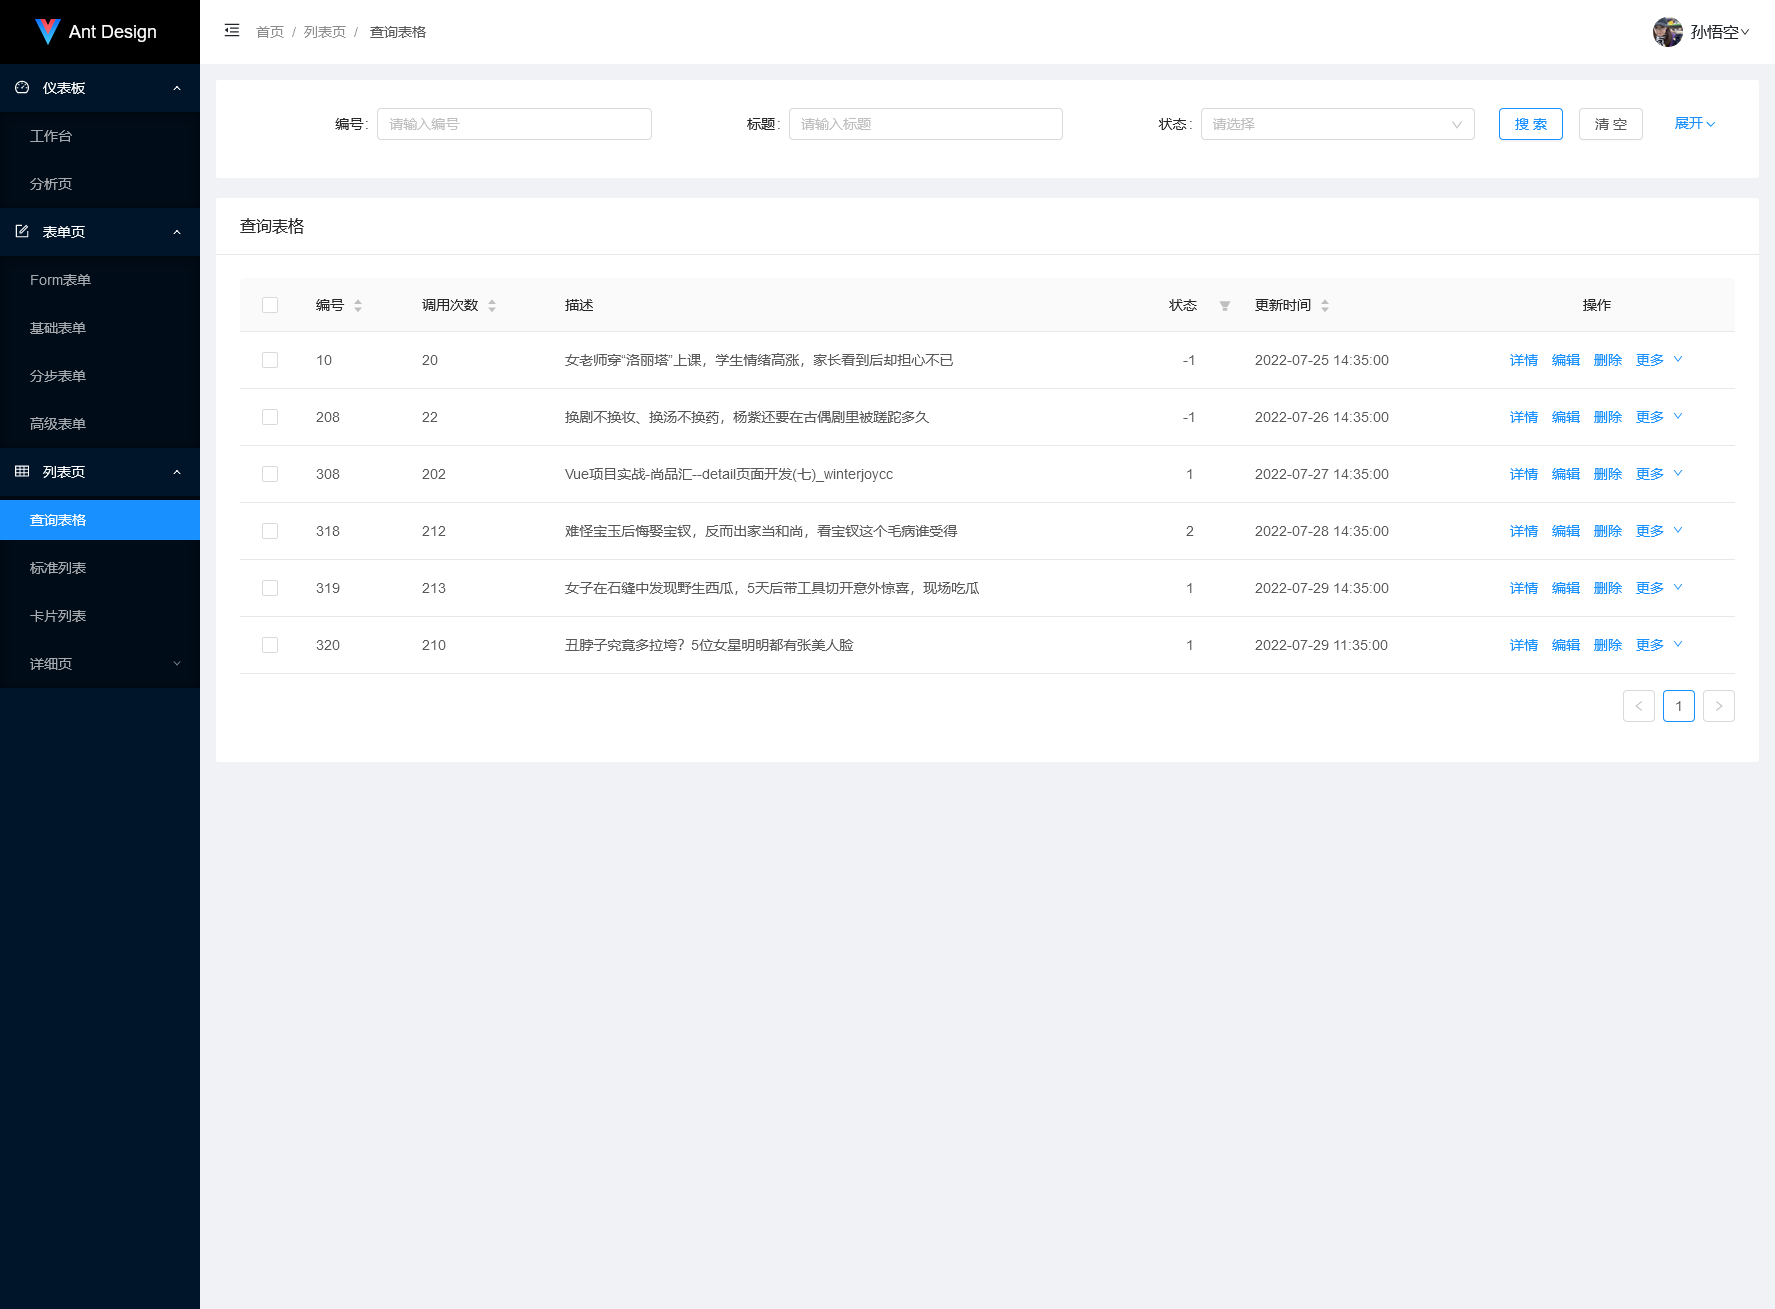
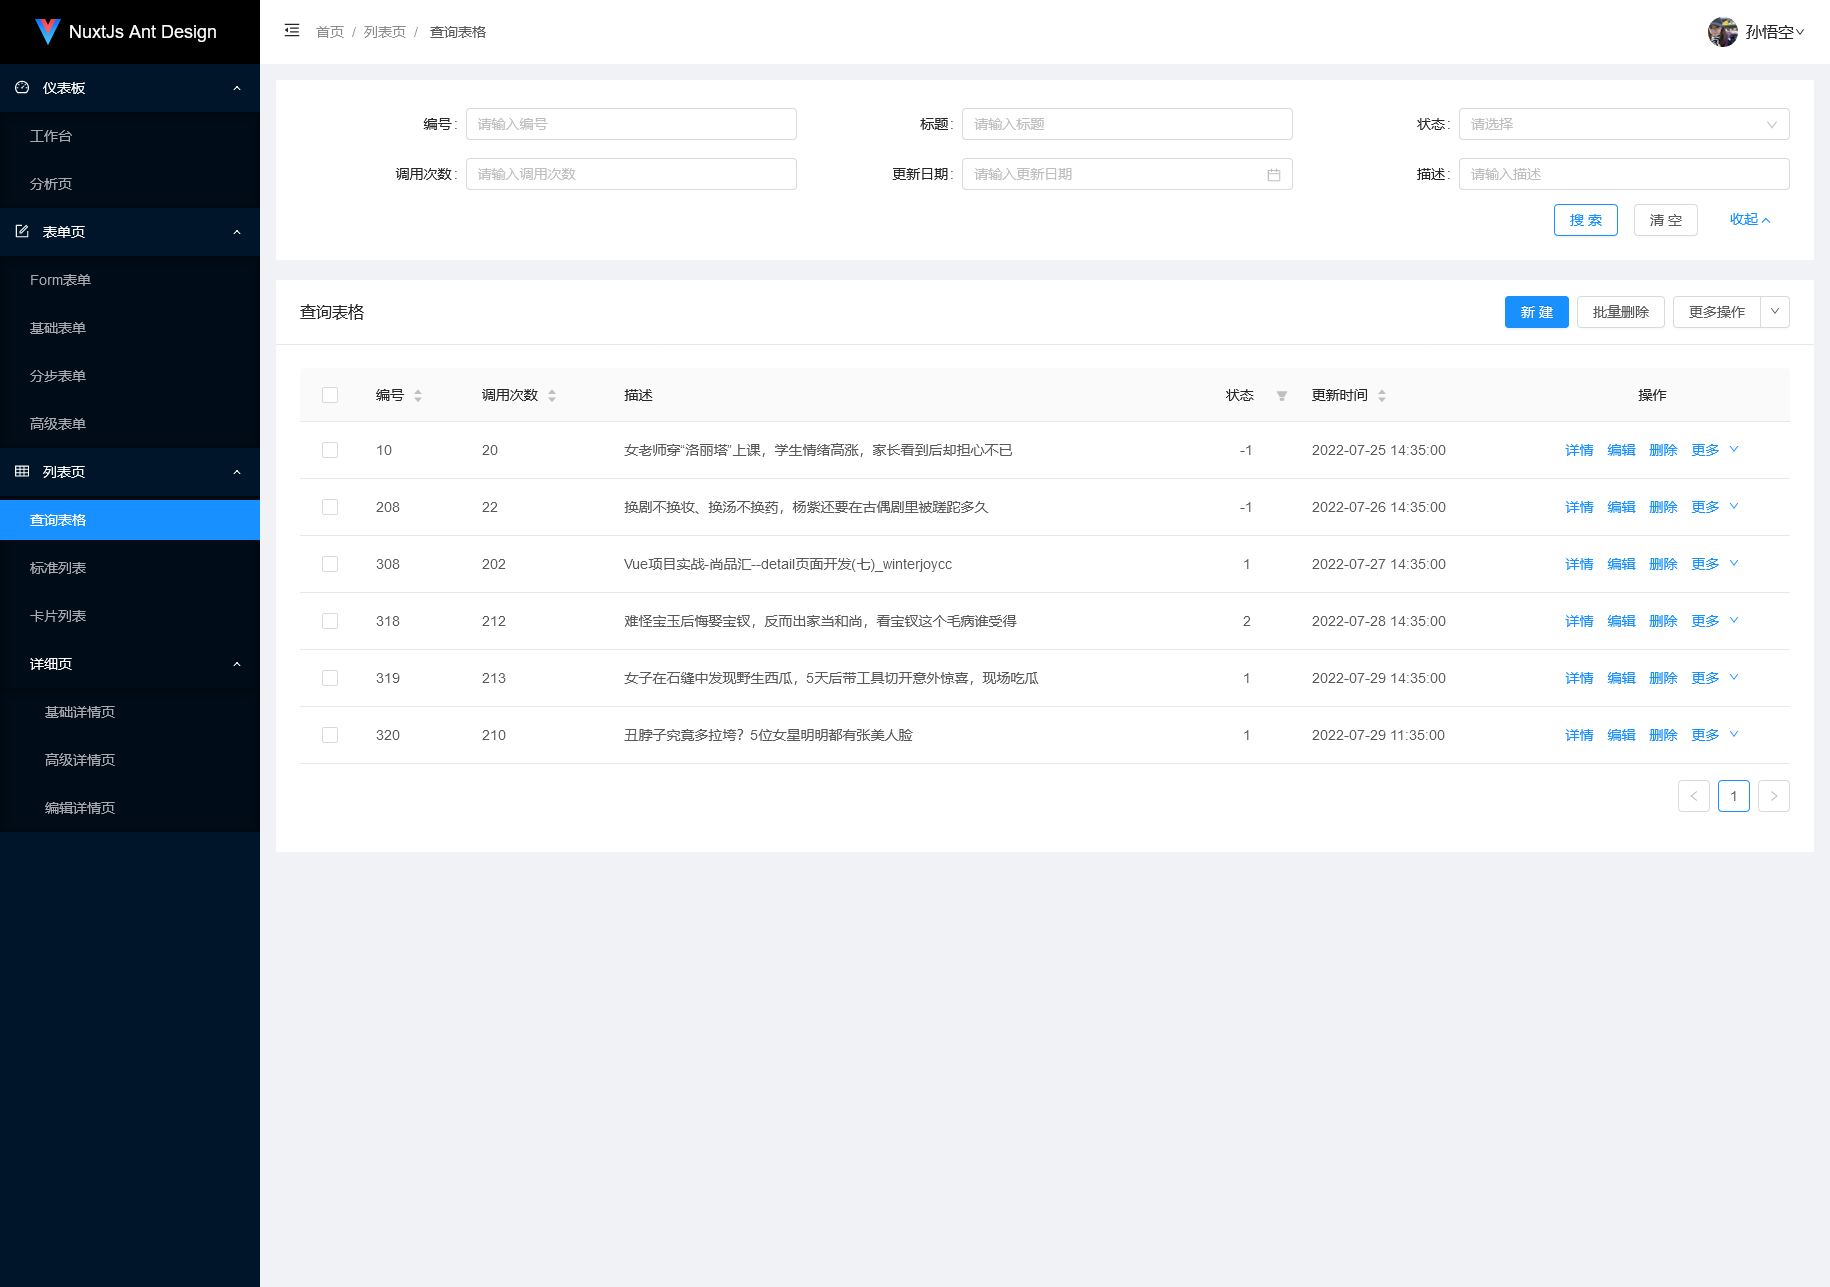
提交

diff --git a/assets/js/utils.js b/assets/js/utils.js
@@ -95,8 +95,13 @@ export function guid (len = 32, radix = null) {
   return uuid.join('')
 }
 
+/**
+ * vuex~同步登录信息start
+ * @param $this
+ * @param type
+ */
+
 export function syncVuex ($this, type) {
-  // vuex~同步登录信息start
   $this.$vuex('vuex_token', $this.$getStorage('token'))
   $this.$vuex('vuex_user', $this.$getStorage('user'))
   $this.$vuexAdmin('searchFold', $this.$getStorage('searchFold'))
@@ -108,4 +113,34 @@ export function syncVuex ($this, type) {
   if (type === 'admin' && $this.vuex_menu.selectedKeys.length > 0) {
     $this.$router.push($this.vuex_menu.selectedKeys[0])
   }
+}
+
+/**
+ * 把数字转成中文数字
+ * @param num
+ * @returns {string}
+ */
+
+export function changeNumToHan(num){
+  const arr1 = ['零', '一', '二', '三', '四', '五', '六', '七', '八', '九']
+  const arr2 = ['', '十', '百', '千', '万', '十', '百', '千', '亿', '十', '百', '千', '万', '十', '百', '千', '亿']
+  if (!num || isNaN(num)) {
+    return '零'
+  }
+  const english = num.toString().split('')
+  let result = ''
+  for (let i = 0; i < english.length; i++) {
+    const desI = english.length - 1 - i// 倒序排列设值
+    result = arr2[i] + result
+    const arr1Index = english[desI]
+    result = arr1[arr1Index] + result
+  }
+  result = result.replace(/零(千|百|十)/g, '零').replace(/十零/g, '十') // 将【零千、零百】换成【零】 【十零】换成【十】
+  result = result.replace(/零+/g, '零') // 合并中间多个零为一个零
+  result = result.replace(/零亿/g, '亿').replace(/零万/g, '万') // 将【零亿】换成【亿】【零万】换成【万】
+  result = result.replace(/亿万/g, '亿') // 将【亿万】换成【亿】
+  result = result.replace(/零+$/, '') // 移除末尾的零
+  // 将【一十】换成【十】
+  result = result.replace(/^一十/g, '十')
+  return result
 }

diff --git a/pages/Admin/Dashboard/WorkPlace.vue b/pages/Admin/Dashboard/WorkPlace.vue
@@ -27,14 +27,22 @@
         </MyCard>
       </a-col>
       <a-col :xs="24" :sm="24" :md="8" :lg="8" :xl="8" :xxl="8">
+        <MyCard title="快速开始/便捷导航">
+          <div class="d-flex justify-content-start flex-wrap text-center">
+            <a v-for="item in [1,2,3,4,5,6,7,8,9,10]" :key="item" class="w-25 u-m-b-15 text-secondary">
+              操作{{changeNumToHan(item)}}
+            </a>
+            <span class="w-25 u-m-b-15"><a-button size="small" icon="plus">添加</a-button></span>
+          </div>
+        </MyCard>
         <MyCard title="产品指数">
-          <ChartRadarChart :data-source="dataSource" :option="option" height="275"/>
+          <ChartRadarChart :data-source="dataSource" :option="option" height="370"/>
         </MyCard>
         <MyCard title="团队">
           <a-row>
             <a-col v-for="(item, index) in teams" :key="index" :span="12" class="u-p-t-12 u-p-b-12">
-              <nuxt-link to="/" class="d-flex justify-content-start align-items-center">
-                <a-avatar size="small" :src="item.avatar" class="flex-grow-0 flex-shrink-0" />
+              <nuxt-link to="/" class="d-flex justify-content-start align-items-center text-secondary">
+                <a-avatar size="small" :src="item.avatar" class="flex-grow-0 flex-shrink-0"/>
                 <span class="u-line-1 u-m-l-5">{{item.name}}</span>
               </nuxt-link>
             </a-col>
@@ -46,6 +54,7 @@
 </template>
 
 <script>
+  import { changeNumToHan } from '@/assets/js/utils'
 
   export default {
     name: 'WorkPlace',
@@ -168,10 +177,12 @@
     mounted () {
 
     },
-    methods: {}
+    methods: {
+      changeNumToHan
+    }
   }
 </script>
 
-<style scoped>
+<style scoped lang="scss">
 
 </style>

diff --git a/pages/error/500.vue b/pages/error/500.vue
@@ -1,10 +1,14 @@
 <template>
-  <div class="error-container text-center">
-    <div class="mb-50"><img src="@/assets/images/500.png" alt="500"></div>
-    <a-space align="center" direction="horizontal" size="large">
-      <a-button type="default" @click="$router.back()">{{jumpTime}}s 返回上一页</a-button>
-      <a-button type="primary" @click="$router.push('/')">返回首页</a-button>
-    </a-space>
+  <div class="error-container">
+    <div class="error-content text-center">
+      <div>
+        <img src="@/assets/images/500.png" alt="500">
+      </div>
+      <a-space align="center" direction="horizontal" size="large" class="u-m-t-50">
+        <a-button type="default" @click="$router.back()">{{jumpTime}}s 返回上一页</a-button>
+        <a-button type="primary" @click="$router.push('/')">返回首页</a-button>
+      </a-space>
+    </div>
   </div>
 </template>
 

diff --git a/pages/Admin/List/QueryList.vue b/pages/Admin/List/QueryList.vue
@@ -6,6 +6,20 @@
         <SearchFilter :item-list="itemList" @onSearch="onSearch"/>
       </MyCard>
       <MyCard title="查询表格">
+        <div slot="extra">
+          <a-space align="center" direction="horizontal">
+            <a-button type="primary">新建</a-button>
+            <a-button type="default">批量删除</a-button>
+            <a-dropdown-button>
+              更多操作
+              <a-icon slot="icon" type="down" />
+              <a-menu slot="overlay">
+                <a-menu-item key="1">审核</a-menu-item>
+                <a-menu-item key="2">删除</a-menu-item>
+              </a-menu>
+            </a-dropdown-button>
+          </a-space>
+        </div>
         <MyTable
           :columns="columns"
           :data-source="dataSource"

diff --git a/layouts/AdminMenu.vue b/layouts/AdminMenu.vue
@@ -1,10 +1,10 @@
 <template>
-  <div :style="vuexMenu.collapsed ? 'width:80px' : 'width:200px'" class="layout-side">
-    <a-layout-sider :collapsed="vuexMenu.collapsed">
+  <div :style="vuexMenu.collapsed ? 'width:80px' : 'width:260px'" class="layout-side">
+    <a-layout-sider width="260" :collapsed="vuexMenu.collapsed">
       <div class="logo">
         <nuxt-link to="/admin" class="d-flex justify-content-center align-items-center">
           <img src="@/assets/images/logo.png" alt="">
-          <h1 v-if="!vuexMenu.collapsed" class="m-2">Ant Design</h1>
+          <h1 v-if="!vuexMenu.collapsed" class="m-2">NuxtJs Ant Design</h1>
         </nuxt-link>
       </div>
       <a-menu

diff --git a/pages/error/403.vue b/pages/error/403.vue
@@ -16,12 +16,12 @@
             />
             <img
               alt="401"
-              class="pic-error-child"
+              class="pic-error-child mid"
               src="@/assets/images/cloud.png"
             />
             <img
               alt="401"
-              class="pic-error-child"
+              class="pic-error-child right"
               src="@/assets/images/cloud.png"
             />
           </div>

diff --git a/pages/error/404.vue b/pages/error/404.vue
@@ -16,12 +16,12 @@
             />
             <img
               alt="404"
-              class="pic-error-child"
+              class="pic-error-child mid"
               src="@/assets/images/cloud.png"
             />
             <img
               alt="404"
-              class="pic-error-child"
+              class="pic-error-child right"
               src="@/assets/images/cloud.png"
             />
           </div>

diff --git a/assets/css/_error.scss b/assets/css/_error.scss
@@ -1,10 +1,13 @@
 .error-container {
-  position:absolute;
-  top:40%;
-  left:50%;
-  transform:translate(-50%, -50%);
+  display: flex;
+  width: 100%;
+  height: 80%;
+  justify-content: center;
+  align-items: center;
 
   .error-content {
+    position: relative;
+
     .pic-error {
       position:relative;
       float:left;

diff --git a/pages/Login.vue b/pages/Login.vue
@@ -18,7 +18,7 @@
             layout="horizontal"
             :model="myform"
             :rules="rules"
-            class="pt-50"
+            class="u-p-t-50"
             @submit.prevent="submitSave"
           >
             <a-form-model-item prop="username">

diff --git a/assets/css/main.scss b/assets/css/main.scss
@@ -36,7 +36,7 @@ ul, ol, li {
 
 #__nuxt, #__layout {
   width: 100%;
-  min-height: 100vh;
+  height: 100vh;
 }
 
 .page-enter,
